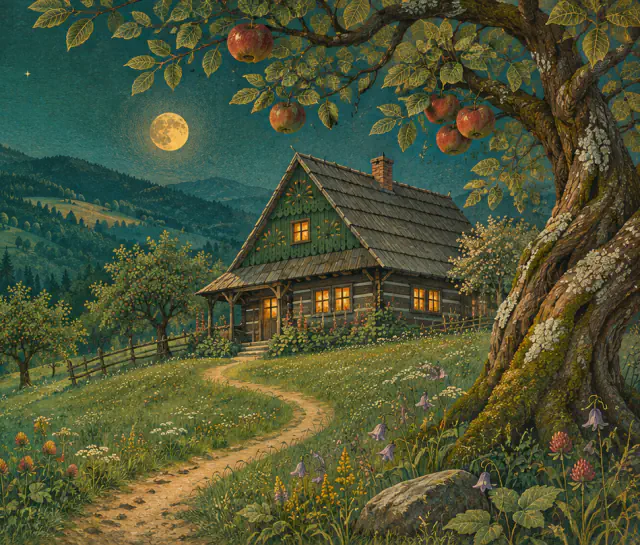
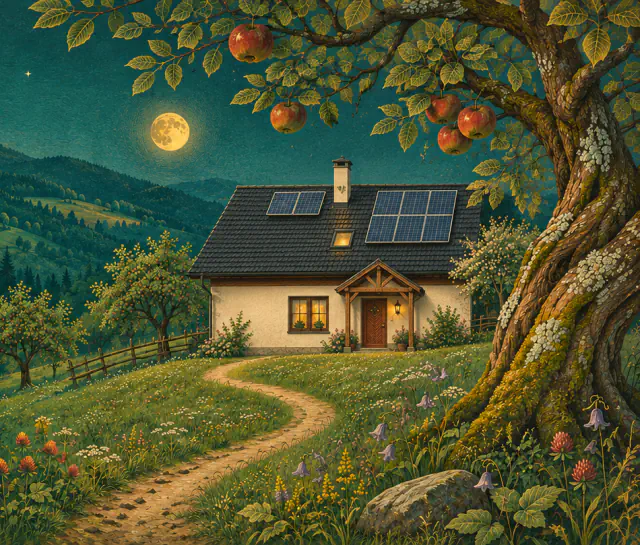
Match illustrated orchard house to the family home

diff --git a/versions/2026-11-04-orchard-tales/index.html b/versions/2026-11-04-orchard-tales/index.html
@@ -118,7 +118,7 @@
           width="1942"
           height="809"
           fetchpriority="high"
-          alt="Księżyc nad sadem. Ścieżka wśród jabłoni prowadzi do drewnianego domu ze światłem w oknach."
+          alt="Księżyc nad sadem. Ścieżka wśród jabłoni prowadzi do jasnego domu z ciemnym dachem i światłem w oknach."
         />
       </picture>
       <header class="masthead shell">
@@ -290,7 +290,7 @@
                     height="504"
                     loading="lazy"
                     decoding="async"
-                    alt="Pośród kwitnących jabłoni ścieżka prowadzi do drewnianego domu."
+                    alt="Pośród kwitnących jabłoni ścieżka prowadzi do jasnego domu z ciemnym dachem i panelami słonecznymi."
                   />
                 </picture>
               </div>

diff --git a/.repota/done/match-illustrated-house-to-reality.md b/.repota/done/match-illustrated-house-to-reality.md
@@ -1,0 +1,31 @@
+# Match the illustrated house to the family home
+
+Revise the house in the cover and opening chapter of `versions/2026-11-04-orchard-tales/`, as requested by Piotr after reviewing the new edition. Use the orchard photographs as architectural references, preserving the generated fairytale painting style.
+
+Match the cream rendered walls, broad dark tiled roof, solar panels, chimney, roof window and small timber entrance canopy. Export the existing desktop and phone sizes and update the two image descriptions to match the revised artwork.
+
+Done when both generated scenes visibly match the reference house, the responsive images render correctly, and the correction is committed to `main`.
+
+## Image generation
+
+Edited with built-in ImageGen. The reference photographs were `0-miejsce-sciezka-do-domu-1000.jpg` and `0-miejsce-korona-nad-domem-1440.jpg` from `versions/shared/photos/`.
+
+<details>
+<summary>Cover edit prompt</summary>
+
+Use case: precise-object-edit.
+Asset type: full-width landscape website hero illustration, approx 2.4:1.
+Input image 1 is the illustration to edit. Images 2 and 3 are architectural reference photographs of the real family home.
+Primary request: correct ONLY the house in image 1 to resemble the real home closely. Keep the exact scene, aspect ratio and moonlit fairytale gouache/engraving painting style, composition, image framing, dark forest space on the left for website text, hills, moon, apples, trees, ferns, meadow and curving path. The new house must sit at the same position and similar footprint on the right.
+House architecture from references: a modest low rectangular cream-white plastered house, with a long broad charcoal dark tiled gable roof, the BROAD SLOPING ROOF PLANE facing the viewer and horizontal ridge across it. Match the references' proportions and orientation: no prominent tall front triangular chalet gable. Include recognizable two roof-mounted solar panel groups, a small rectangular roof window below the ridge, a simple pale chimney, dark brown eaves, the double brown-framed window left of a reddish-brown entrance door, with a small timber gabled canopy on two wooden posts over the entrance. Cream walls should look warm under the moonlight; retain inviting golden light from its windows. Embed the ground floor into the grassy slope as in the reference. Remove the invented log walls, decorative high chalet facade and full-width veranda. The actual building should be recognizable, naturally rendered in the existing painted style, not a pasted photo.
+Constraints: change only the house and immediately adjacent entrance details as necessary. Maintain the rest of the original illustration very closely. No lettering, no watermark. Output a single landscape image.
+
+</details>
+
+The opening chapter used the same architectural brief, preserving its spring blossom orchard, warm daylight, winding path and 3:2 composition.
+
+## Done
+
+Codex revised the cover and opening chapter on 2026-11-05 following Piotr's requested correction to this edition. The two generated scenes now share the real house's cream facade, broad dark tiled roof, panel arrays, rooflight and small entrance canopy. All five responsive WebP files retain their expected dimensions, and both alt texts describe the revised house.
+
+Desktop and phone rendering checks passed with no missing assets or browser errors. Mobile Lighthouse on a gzip static server scored 99 for performance and 100 for accessibility, with LCP 2.1 s and zero layout shift.
